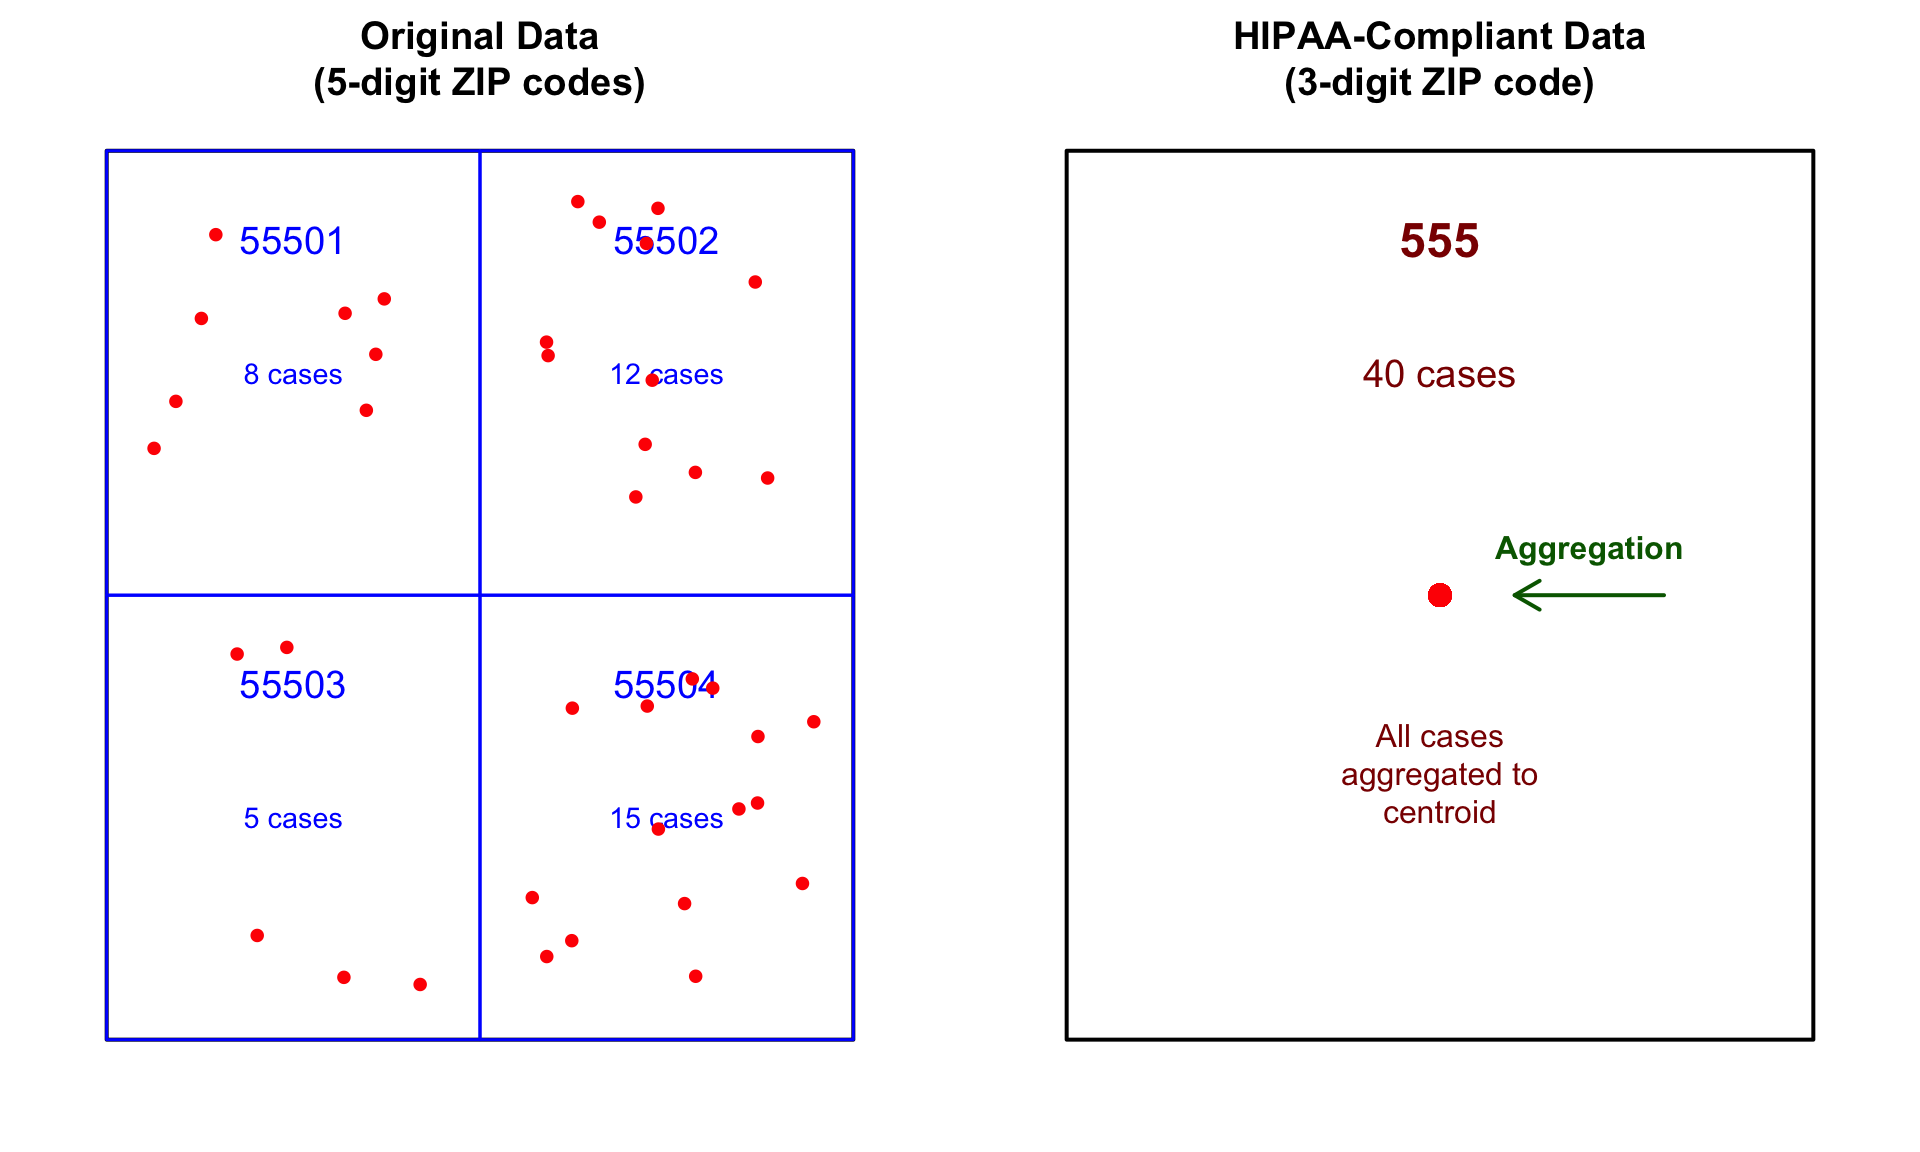
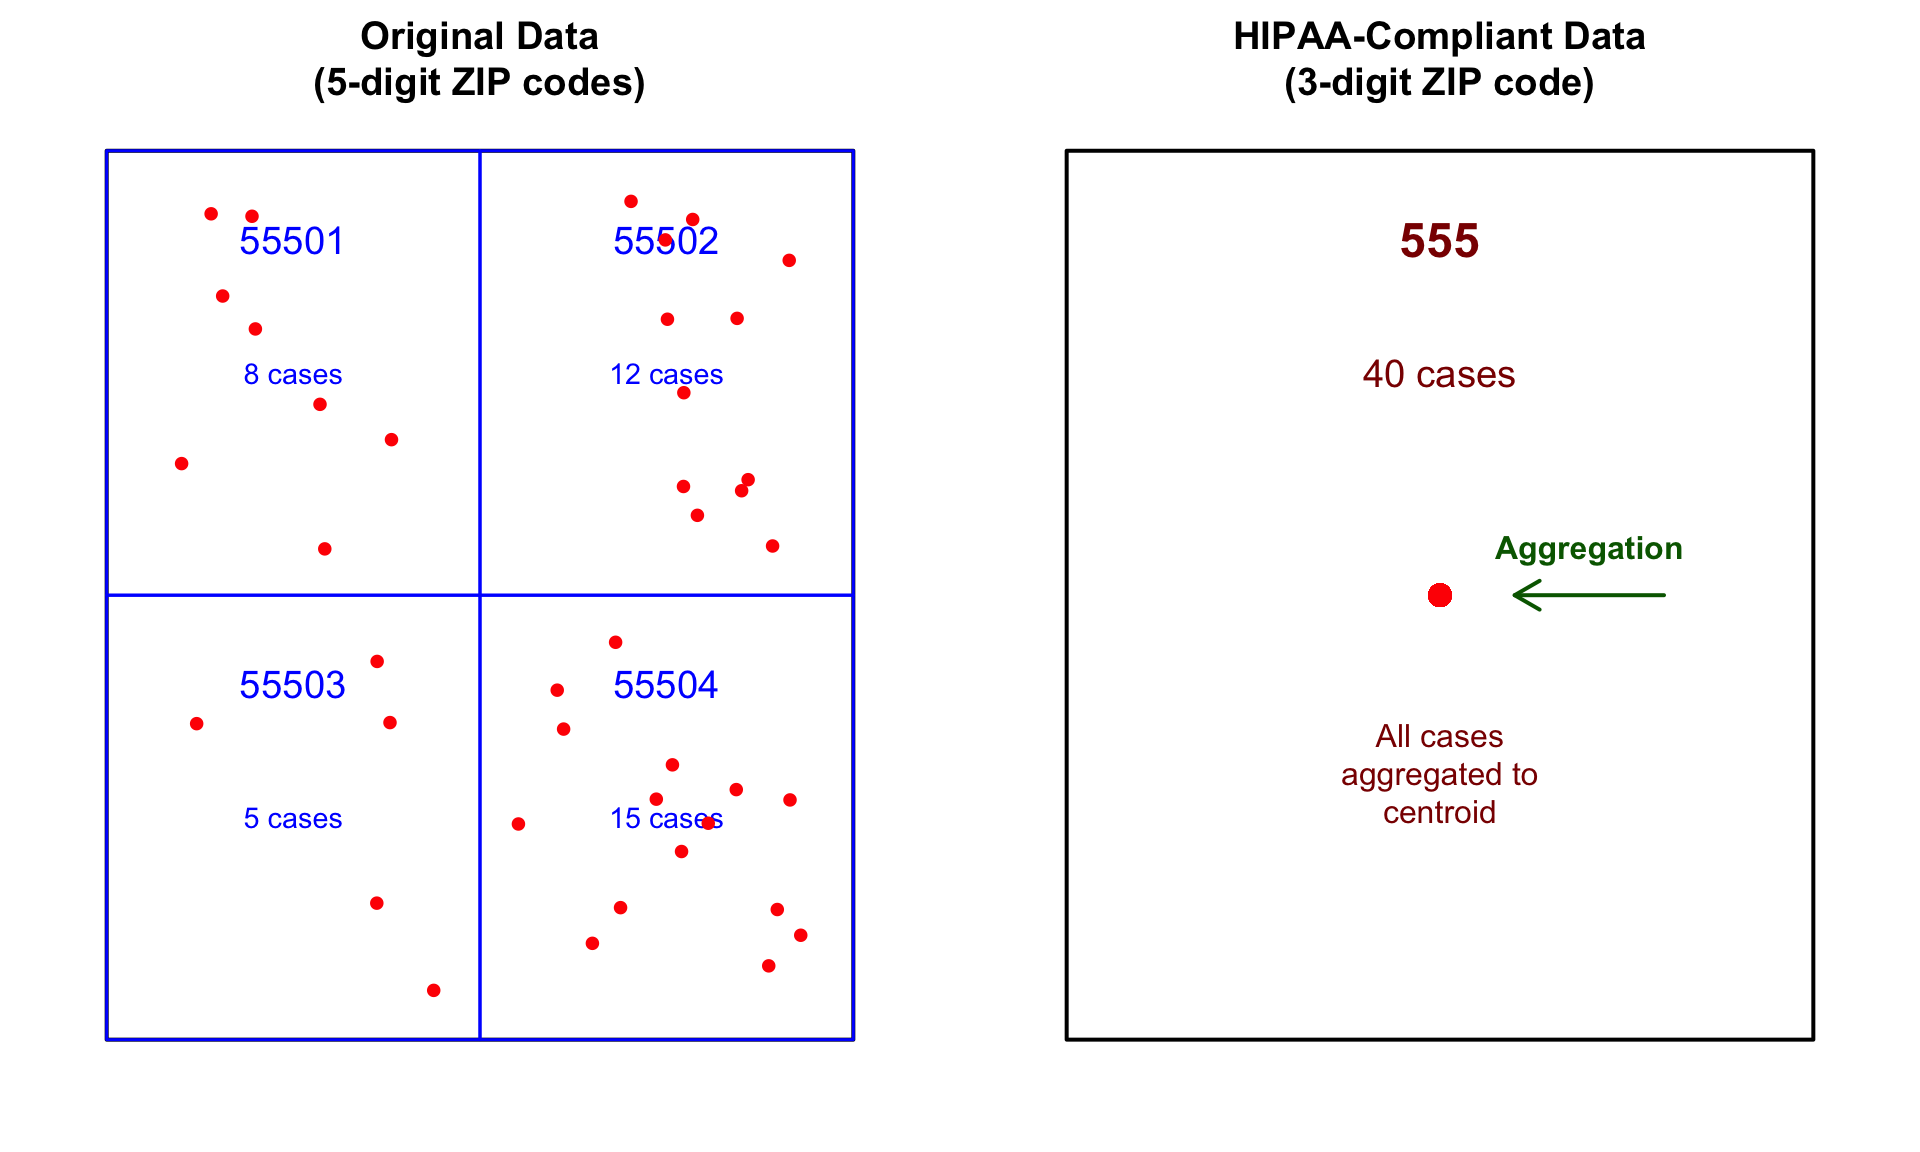
~

diff --git a/privacy.html b/privacy.html
@@ -1106,8 +1106,8 @@ Attaching package: 'DiagrammeR'</code></pre>
 </details>
 <div id="fig-decision-tree" class="quarto-figure quarto-figure-center anchored">
 <figure class="figure">
-<div class="grViz html-widget html-fill-item" id="htmlwidget-7e612013054548918011" style="width:100%;height:541px;"></div>
-<script type="application/json" data-for="htmlwidget-7e612013054548918011">{"x":{"diagram":"\ndigraph decision_tree {\n  graph [rankdir = TB, fontname = Helvetica, bgcolor = transparent]\n  node [shape = box, style = filled, fontname = Helvetica, fontsize = 10]\n  edge [fontname = Helvetica, fontsize = 9]\n  \n  start [label = \"Geocoding Complete\", fillcolor = \"#E6F3FF\", shape = diamond]\n  check_rate [label = \"Geocoding Rate?\", fillcolor = \"#FFE6CC\", shape = diamond]\n  high_rate [label = \"≥90% Success\nProceed with caution\", fillcolor = \"#90EE90\"]\n  mod_rate [label = \"70-90% Success\nInvestigate patterns\", fillcolor = \"#FFD700\"]\n  low_rate [label = \"<70% Success\nHigh risk of bias\", fillcolor = \"#FF6347\"]\n  \n  test_spatial [label = \"Test for spatial\nclustering of failures?\", fillcolor = \"#FFE6CC\", shape = diamond]\n  clustered [label = \"Failures are\nclustered\", fillcolor = \"#FFB6C1\"]\n  random [label = \"Failures appear\nrandom\", fillcolor = \"#ADD8E6\"]\n  \n  check_association [label = \"Disease associated\nwith geocoding failure?\", fillcolor = \"#FFE6CC\", shape = diamond]\n  associated [label = \"Positive association\n(e.g., rural disease)\", fillcolor = \"#FF6347\"]\n  independent [label = \"Independent\n(reasonable assumption)\", fillcolor = \"#90EE90\"]\n  \n  // Actions\n  action1 [label = \"Report limitations\nProceed with analysis\", fillcolor = \"#E6FFE6\", shape = ellipse]\n  action2 [label = \"Conduct sensitivity analysis\nMultiple spatial scales\", fillcolor = \"#FFF9E6\", shape = ellipse]\n  action3 [label = \"Major concern:\n• Consider improving geocoding\n• Adjust methods\n• Prominent limitations\", fillcolor = \"#FFE6E6\", shape = ellipse]\n  action4 [label = \"Test power reduction\nDocument spatial bias\nConsider weighted analysis\", fillcolor = \"#FFE6E6\", shape = ellipse]\n  \n  // Edges\n  start -> check_rate\n  check_rate -> high_rate [label = \"≥90%\"]\n  check_rate -> mod_rate [label = \"70-90%\"]\n  check_rate -> low_rate [label = \"<70%\"]\n  \n  high_rate -> action1\n  mod_rate -> test_spatial\n  low_rate -> test_spatial\n  \n  test_spatial -> clustered [label = \"Yes\n(p<0.05)\"]\n  test_spatial -> random [label = \"No\"]\n  \n  clustered -> check_association\n  random -> action2\n  \n  check_association -> associated [label = \"Likely\"]\n  check_association -> independent [label = \"Unlikely\"]\n  \n  associated -> action4\n  independent -> action3\n}\n","config":{"engine":"dot","options":null}},"evals":[],"jsHooks":[]}</script>
+<div class="grViz html-widget html-fill-item" id="htmlwidget-0a5de10d0ff0ac8c4cf9" style="width:100%;height:541px;"></div>
+<script type="application/json" data-for="htmlwidget-0a5de10d0ff0ac8c4cf9">{"x":{"diagram":"\ndigraph decision_tree {\n  graph [rankdir = TB, fontname = Helvetica, bgcolor = transparent]\n  node [shape = box, style = filled, fontname = Helvetica, fontsize = 10]\n  edge [fontname = Helvetica, fontsize = 9]\n  \n  start [label = \"Geocoding Complete\", fillcolor = \"#E6F3FF\", shape = diamond]\n  check_rate [label = \"Geocoding Rate?\", fillcolor = \"#FFE6CC\", shape = diamond]\n  high_rate [label = \"≥90% Success\nProceed with caution\", fillcolor = \"#90EE90\"]\n  mod_rate [label = \"70-90% Success\nInvestigate patterns\", fillcolor = \"#FFD700\"]\n  low_rate [label = \"<70% Success\nHigh risk of bias\", fillcolor = \"#FF6347\"]\n  \n  test_spatial [label = \"Test for spatial\nclustering of failures?\", fillcolor = \"#FFE6CC\", shape = diamond]\n  clustered [label = \"Failures are\nclustered\", fillcolor = \"#FFB6C1\"]\n  random [label = \"Failures appear\nrandom\", fillcolor = \"#ADD8E6\"]\n  \n  check_association [label = \"Disease associated\nwith geocoding failure?\", fillcolor = \"#FFE6CC\", shape = diamond]\n  associated [label = \"Positive association\n(e.g., rural disease)\", fillcolor = \"#FF6347\"]\n  independent [label = \"Independent\n(reasonable assumption)\", fillcolor = \"#90EE90\"]\n  \n  // Actions\n  action1 [label = \"Report limitations\nProceed with analysis\", fillcolor = \"#E6FFE6\", shape = ellipse]\n  action2 [label = \"Conduct sensitivity analysis\nMultiple spatial scales\", fillcolor = \"#FFF9E6\", shape = ellipse]\n  action3 [label = \"Major concern:\n• Consider improving geocoding\n• Adjust methods\n• Prominent limitations\", fillcolor = \"#FFE6E6\", shape = ellipse]\n  action4 [label = \"Test power reduction\nDocument spatial bias\nConsider weighted analysis\", fillcolor = \"#FFE6E6\", shape = ellipse]\n  \n  // Edges\n  start -> check_rate\n  check_rate -> high_rate [label = \"≥90%\"]\n  check_rate -> mod_rate [label = \"70-90%\"]\n  check_rate -> low_rate [label = \"<70%\"]\n  \n  high_rate -> action1\n  mod_rate -> test_spatial\n  low_rate -> test_spatial\n  \n  test_spatial -> clustered [label = \"Yes\n(p<0.05)\"]\n  test_spatial -> random [label = \"No\"]\n  \n  clustered -> check_association\n  random -> action2\n  \n  check_association -> associated [label = \"Likely\"]\n  check_association -> independent [label = \"Unlikely\"]\n  \n  associated -> action4\n  independent -> action3\n}\n","config":{"engine":"dot","options":null}},"evals":[],"jsHooks":[]}</script>
 <figcaption class="figure-caption">Figure&nbsp;10: Decision tree for addressing geocoding challenges in public health practice</figcaption>
 </figure>
 </div>
@@ -1266,8 +1266,8 @@ Public Health GIS Best Practices
 </details>
 <div id="fig-framework" class="quarto-figure quarto-figure-center anchored">
 <figure class="figure">
-<div class="grViz html-widget html-fill-item" id="htmlwidget-a9edae4ed915c525f866" style="width:100%;height:433px;"></div>
-<script type="application/json" data-for="htmlwidget-a9edae4ed915c525f866">{"x":{"diagram":"\ndigraph framework {\n  graph [rankdir = LR, fontname = Helvetica, bgcolor = transparent, nodesep = 0.5, ranksep = 0.8]\n  node [shape = box, style = \"filled,rounded\", fontname = Helvetica, fontsize = 10]\n  edge [fontname = Helvetica, fontsize = 9]\n  \n  subgraph cluster_0 {\n    label = \"Technical Solutions\"\n    style = filled\n    fillcolor = \"#E6F3FF\"\n    \n    tech1 [label = \"Better Geocoding\nAlgorithms\", fillcolor = \"#B3D9FF\"]\n    tech2 [label = \"Error Models &\nPrediction\", fillcolor = \"#B3D9FF\"]\n    tech3 [label = \"Sensitivity\nAnalysis Tools\", fillcolor = \"#B3D9FF\"]\n    tech4 [label = \"Validation\nDatasets\", fillcolor = \"#B3D9FF\"]\n  }\n  \n  subgraph cluster_1 {\n    label = \"Policy Solutions\"\n    style = filled\n    fillcolor = \"#FFE6CC\"\n    \n    policy1 [label = \"HIPAA Reform:\nControlled Access\", fillcolor = \"#FFD699\"]\n    policy2 [label = \"Alternative Privacy\nMethods\", fillcolor = \"#FFD699\"]\n    policy3 [label = \"Standardized\nReporting\", fillcolor = \"#FFD699\"]\n  }\n  \n  subgraph cluster_2 {\n    label = \"Methodological Solutions\"\n    style = filled\n    fillcolor = \"#E6FFE6\"\n    \n    method1 [label = \"Uncertainty\nPropagation\", fillcolor = \"#B3FFB3\"]\n    method2 [label = \"Multi-scale\nAnalysis\", fillcolor = \"#B3FFB3\"]\n    method3 [label = \"Bayesian\nApproaches\", fillcolor = \"#B3FFB3\"]\n  }\n  \n  outcome [label = \"Valid Spatial\nEpidemiology\", shape = ellipse, fillcolor = \"#FFD700\", \n           fontsize = 14, width = 2, style = \"filled,bold\"]\n  \n  tech1 -> outcome\n  tech2 -> outcome\n  tech3 -> outcome\n  tech4 -> outcome\n  \n  policy1 -> outcome\n  policy2 -> outcome\n  policy3 -> outcome\n  \n  method1 -> outcome\n  method2 -> outcome\n  method3 -> outcome\n  \n  tech1 -> tech2 [style = dashed]\n  tech2 -> tech3 [style = dashed]\n  tech4 -> tech1 [style = dashed]\n  \n  policy1 -> policy2 [style = dashed]\n  policy3 -> method3 [style = dashed]\n  \n  method1 -> method2 [style = dashed]\n}\n","config":{"engine":"dot","options":null}},"evals":[],"jsHooks":[]}</script>
+<div class="grViz html-widget html-fill-item" id="htmlwidget-6a42023d1b947b31fe92" style="width:100%;height:433px;"></div>
+<script type="application/json" data-for="htmlwidget-6a42023d1b947b31fe92">{"x":{"diagram":"\ndigraph framework {\n  graph [rankdir = LR, fontname = Helvetica, bgcolor = transparent, nodesep = 0.5, ranksep = 0.8]\n  node [shape = box, style = \"filled,rounded\", fontname = Helvetica, fontsize = 10]\n  edge [fontname = Helvetica, fontsize = 9]\n  \n  subgraph cluster_0 {\n    label = \"Technical Solutions\"\n    style = filled\n    fillcolor = \"#E6F3FF\"\n    \n    tech1 [label = \"Better Geocoding\nAlgorithms\", fillcolor = \"#B3D9FF\"]\n    tech2 [label = \"Error Models &\nPrediction\", fillcolor = \"#B3D9FF\"]\n    tech3 [label = \"Sensitivity\nAnalysis Tools\", fillcolor = \"#B3D9FF\"]\n    tech4 [label = \"Validation\nDatasets\", fillcolor = \"#B3D9FF\"]\n  }\n  \n  subgraph cluster_1 {\n    label = \"Policy Solutions\"\n    style = filled\n    fillcolor = \"#FFE6CC\"\n    \n    policy1 [label = \"HIPAA Reform:\nControlled Access\", fillcolor = \"#FFD699\"]\n    policy2 [label = \"Alternative Privacy\nMethods\", fillcolor = \"#FFD699\"]\n    policy3 [label = \"Standardized\nReporting\", fillcolor = \"#FFD699\"]\n  }\n  \n  subgraph cluster_2 {\n    label = \"Methodological Solutions\"\n    style = filled\n    fillcolor = \"#E6FFE6\"\n    \n    method1 [label = \"Uncertainty\nPropagation\", fillcolor = \"#B3FFB3\"]\n    method2 [label = \"Multi-scale\nAnalysis\", fillcolor = \"#B3FFB3\"]\n    method3 [label = \"Bayesian\nApproaches\", fillcolor = \"#B3FFB3\"]\n  }\n  \n  outcome [label = \"Valid Spatial\nEpidemiology\", shape = ellipse, fillcolor = \"#FFD700\", \n           fontsize = 14, width = 2, style = \"filled,bold\"]\n  \n  tech1 -> outcome\n  tech2 -> outcome\n  tech3 -> outcome\n  tech4 -> outcome\n  \n  policy1 -> outcome\n  policy2 -> outcome\n  policy3 -> outcome\n  \n  method1 -> outcome\n  method2 -> outcome\n  method3 -> outcome\n  \n  tech1 -> tech2 [style = dashed]\n  tech2 -> tech3 [style = dashed]\n  tech4 -> tech1 [style = dashed]\n  \n  policy1 -> policy2 [style = dashed]\n  policy3 -> method3 [style = dashed]\n  \n  method1 -> method2 [style = dashed]\n}\n","config":{"engine":"dot","options":null}},"evals":[],"jsHooks":[]}</script>
 <figcaption class="figure-caption">Figure&nbsp;11: Integrated framework for addressing geocoding challenges</figcaption>
 </figure>
 </div>
